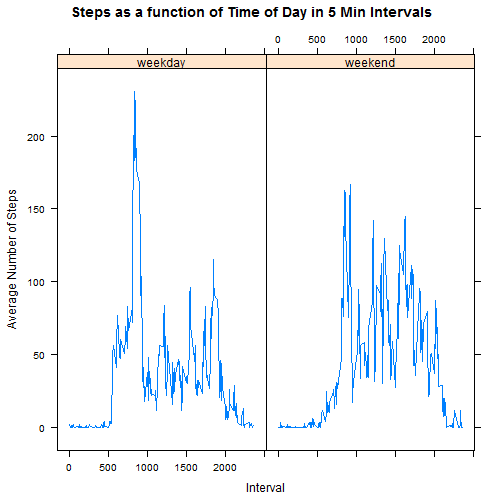
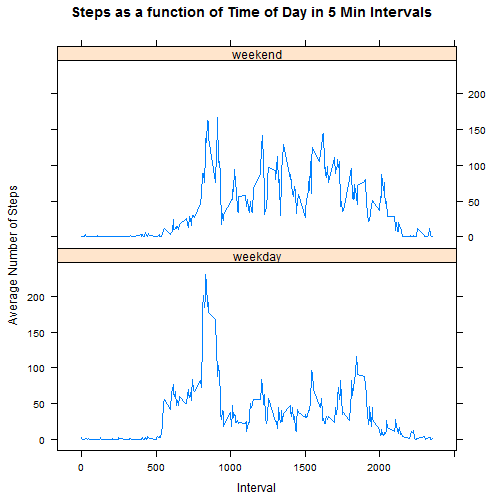
Final-ish version (I hope)

diff --git a/PA1_template.html b/PA1_template.html
@@ -158,8 +158,9 @@ xyplot(new2$steps ~ new2$interval|new2$week,
        xlab = &quot;Interval&quot;,
        ylab = &quot;Average Number of Steps&quot;, 
        main = &quot;Steps as a function of Time of Day in 5 Min Intervals&quot;,
+       layout = c(1,2),
        type = &quot;l&quot;)</code></pre>
[2 lines of base64/hex data omitted]
 </div>
 
 

diff --git a/PA1_template.md b/PA1_template.md
@@ -154,6 +154,7 @@ xyplot(new2$steps ~ new2$interval|new2$week,
        xlab = "Interval",
        ylab = "Average Number of Steps", 
        main = "Steps as a function of Time of Day in 5 Min Intervals",
+       layout = c(1,2),
        type = "l")
 ```
 
